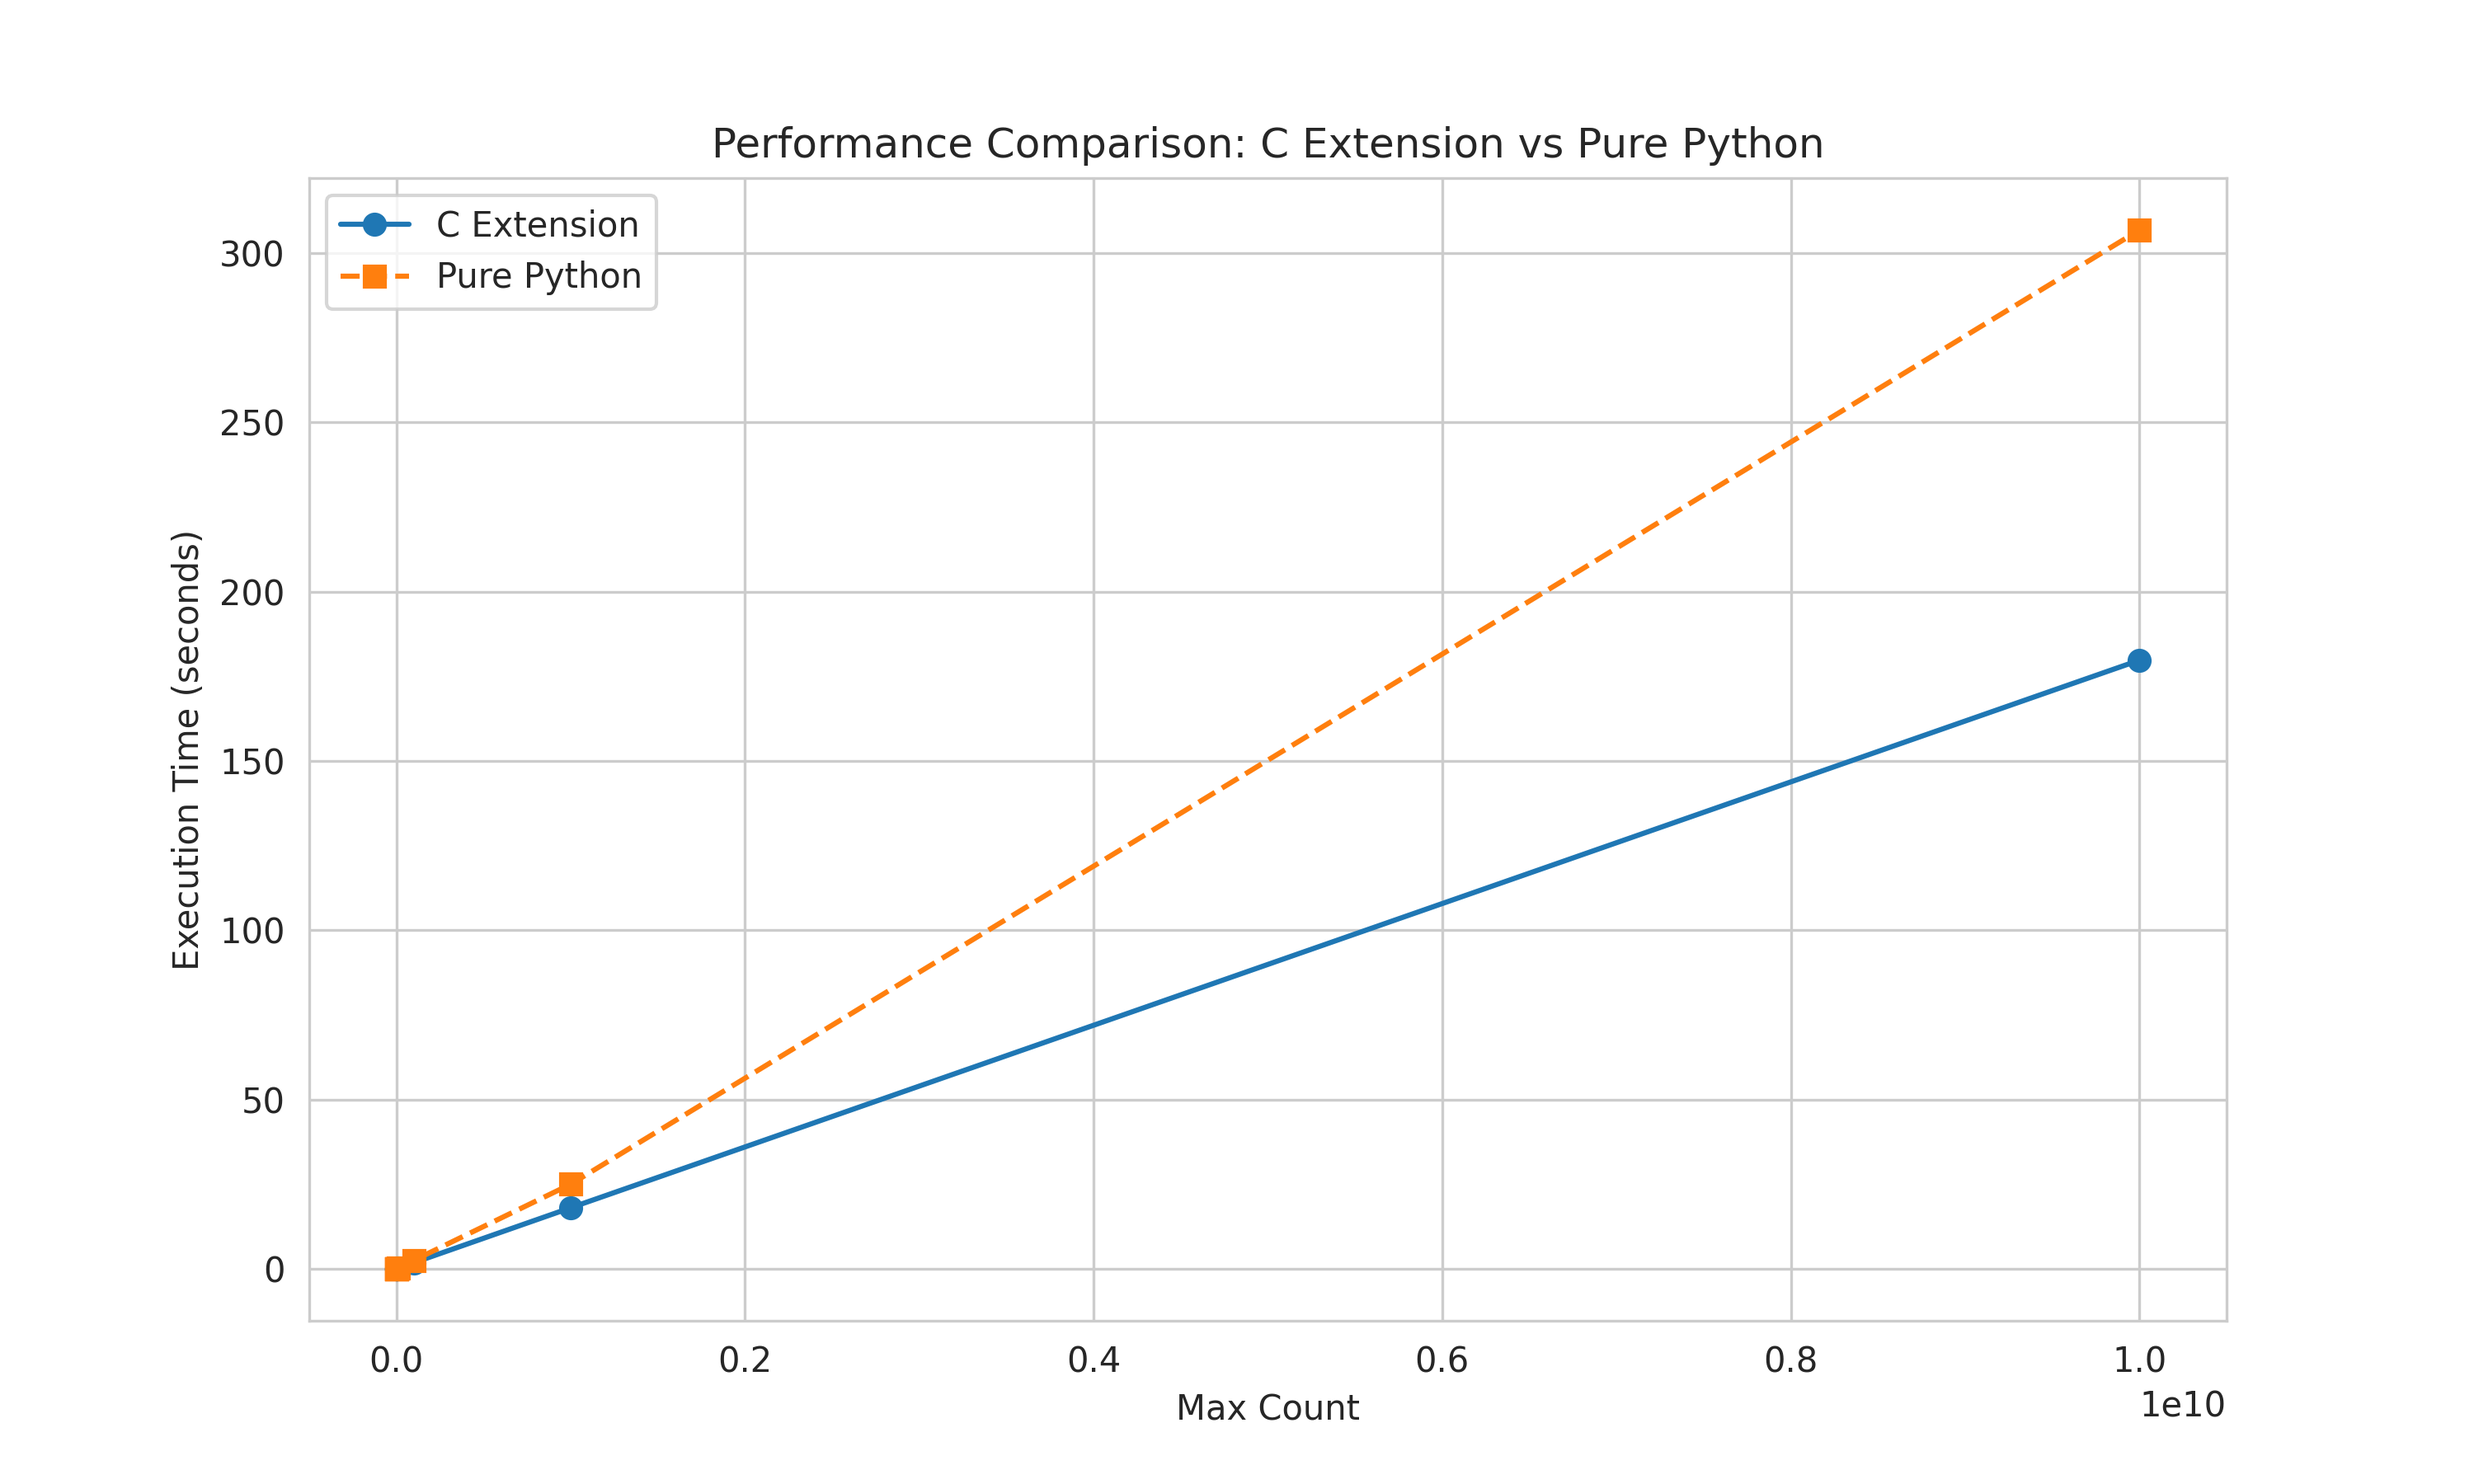
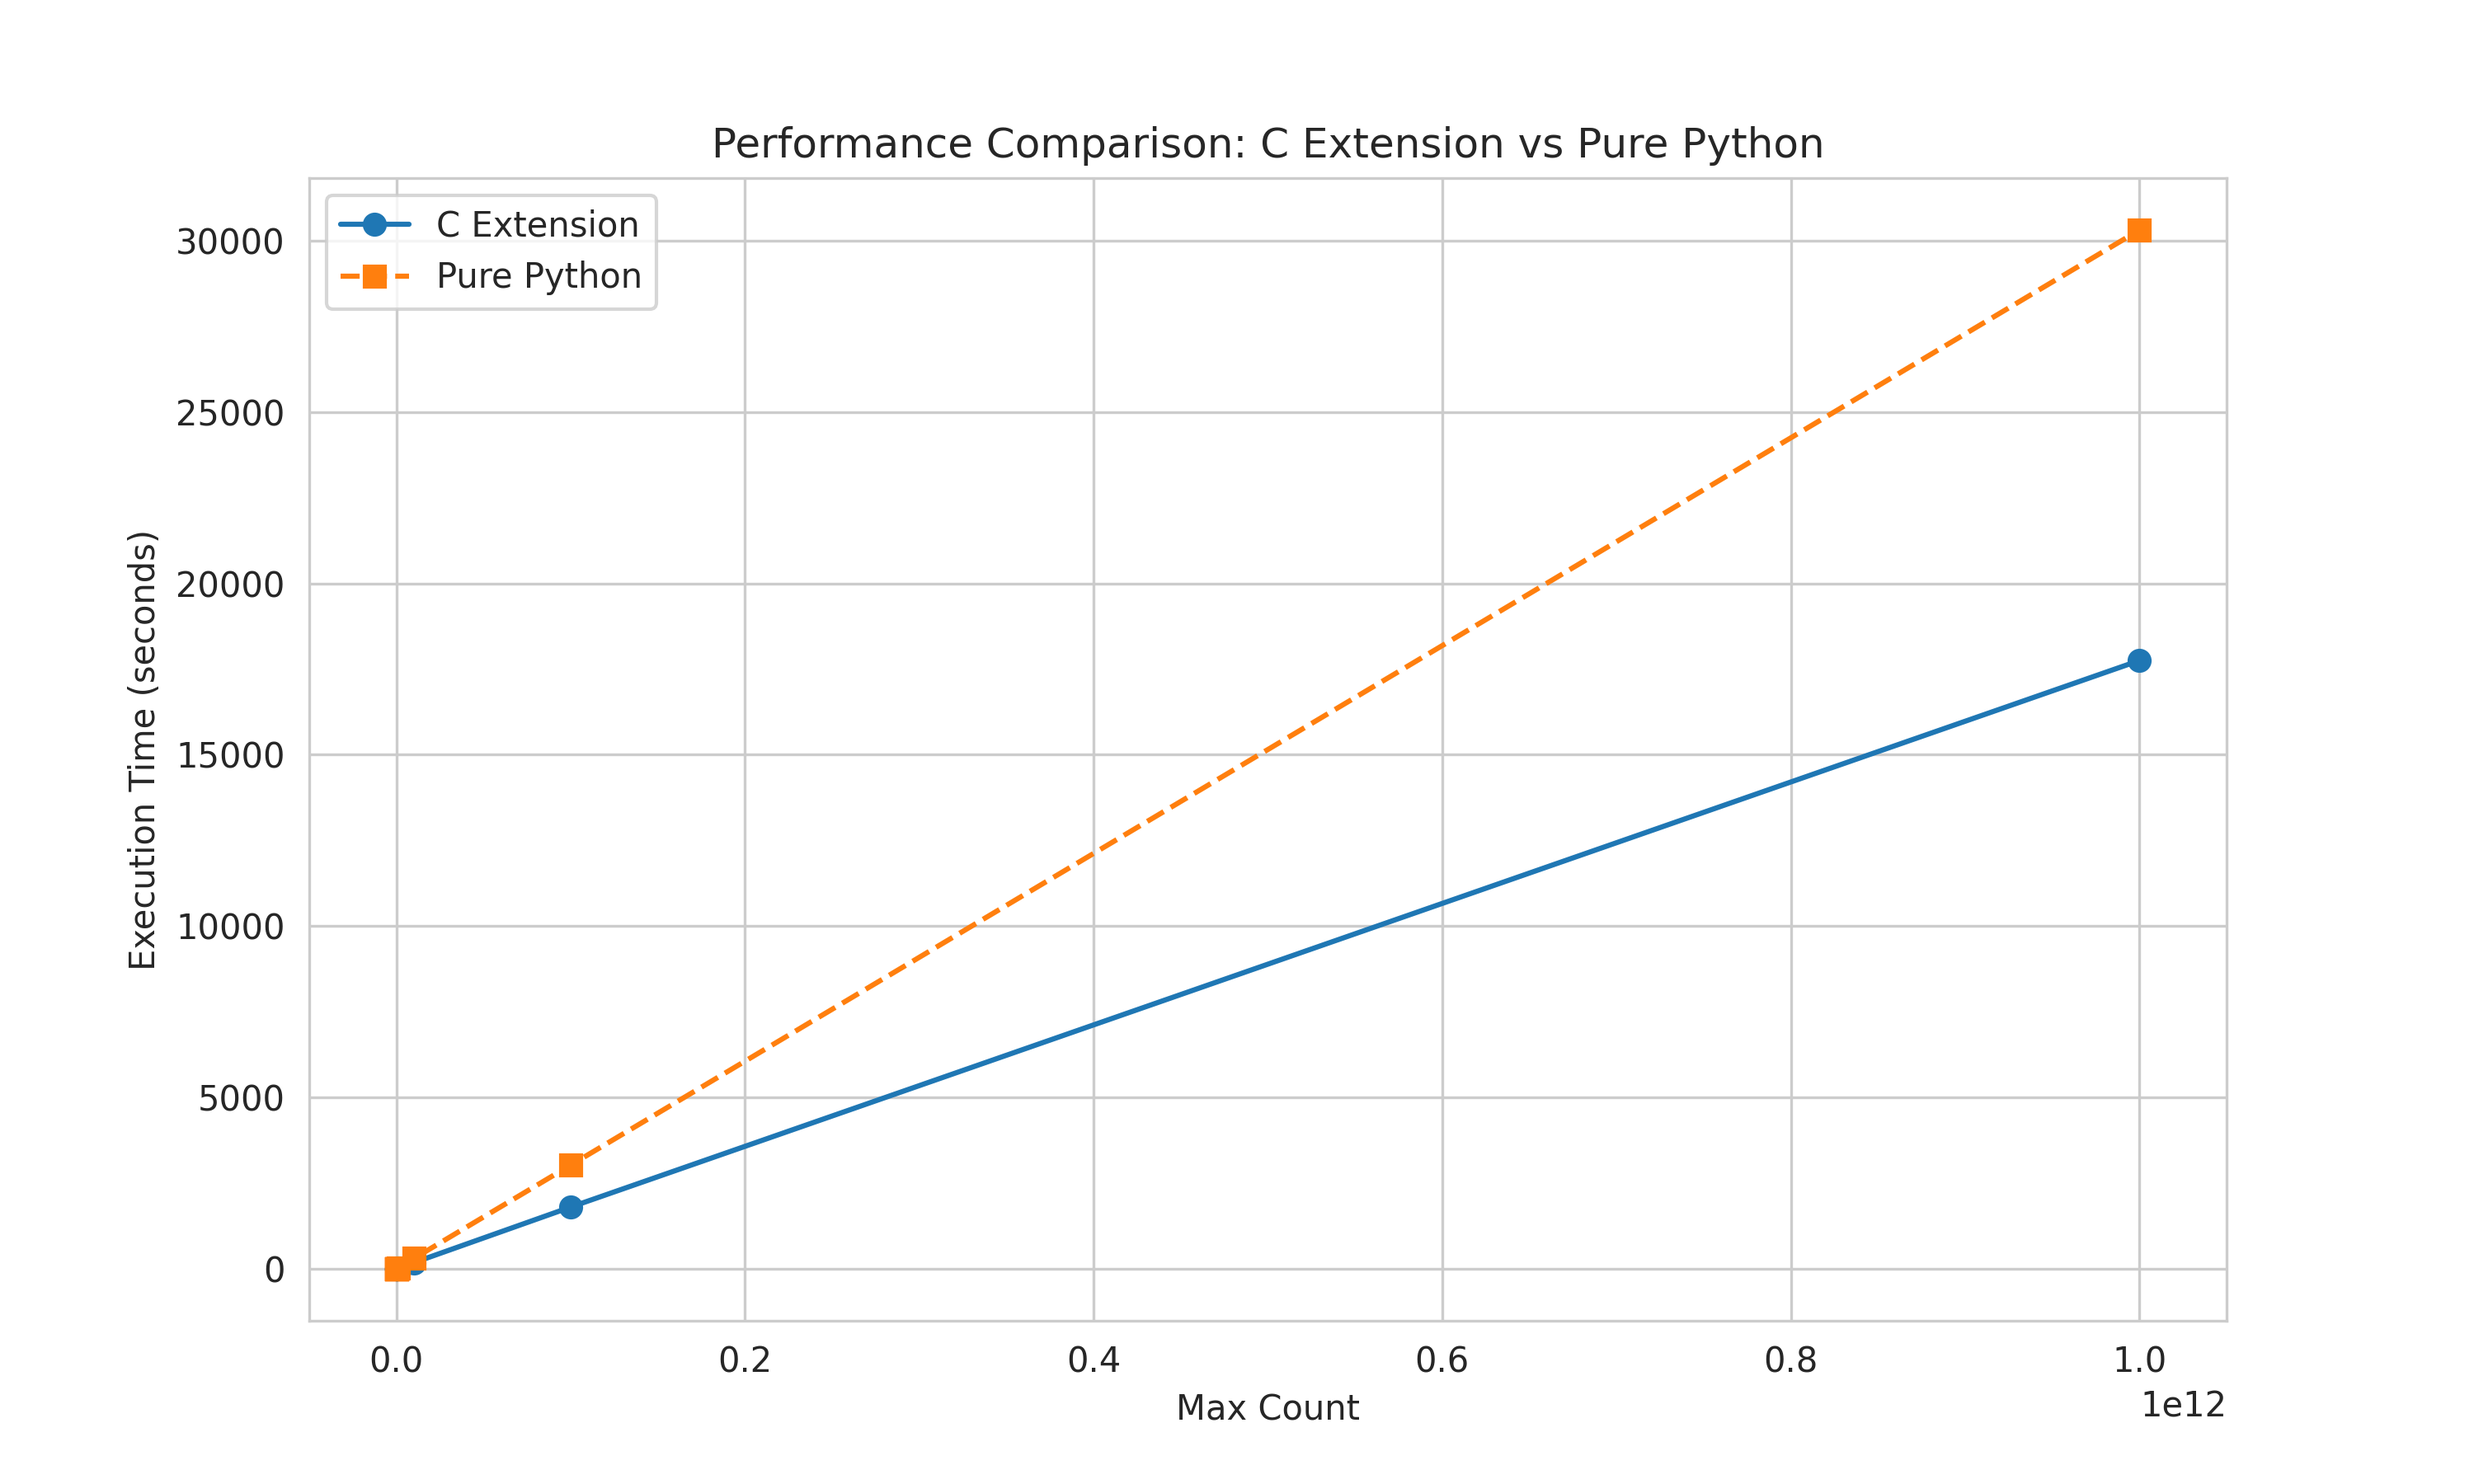
bigger benchmark

diff --git a/count/benchmark.py b/count/benchmark.py
@@ -3,13 +3,7 @@ import count_module
 import seaborn as sns
 import numpy as np
 import matplotlib.pyplot as plt
-
-# Pure Python generator function
-def python_count_up_to(max_value):
-    count = 1
-    while count <= max_value:
-        yield count
-        count += 1
+from count_python import python_count_up_to
 
 
 # Benchmarking function
@@ -42,7 +36,7 @@ if python_time > 0:
 c_times = []
 python_times = []
 
-max_counts = [10**x for x in range(1, 11)]
+max_counts = [10**x for x in range(1, 13)]
 
 for max_count in max_counts:
     print(f"Benchmarking for {max_count} iterations...")
@@ -54,12 +48,28 @@ for max_count in max_counts:
     # Benchmark pure Python generator
     python_time = benchmark(python_count_up_to, max_count)
     python_times.append(python_time)
+    print(f"{c_time:.6f} - {python_time:.6f}")
 
 max_counts = np.array(max_counts)
 c_times = np.array(c_times)
 python_times = np.array(python_times)
 
 # Plot the results
+sns.set_style("whitegrid")
+plt.figure(figsize=(10, 6))
+
+plt.plot(max_counts, c_times, label="C Extension", marker="o", linestyle="-")
+plt.plot(max_counts, python_times, label="Pure Python", marker="s", linestyle="--")
+
+plt.xlabel("Max Count")
+plt.ylabel("Execution Time (seconds)")
+plt.title("Performance Comparison: C Extension vs Pure Python")
+plt.legend()
+
+plot_filename = "./performance_comparison.png"
+plt.savefig(plot_filename, dpi=300)
+plt.show()
+
 sns.set_style("whitegrid")
 plt.figure(figsize=(10, 6))
 

diff --git a/count/count_python.py b/count/count_python.py
@@ -1,0 +1,6 @@
+# Pure Python generator function
+def python_count_up_to(max_value):
+    count = 1
+    while count <= max_value:
+        yield count
+        count += 1

diff --git a/count/README.md b/count/README.md
@@ -2,14 +2,14 @@
 
 ```commandline
 python3 setup.py build_ext --inplace
-pyhton3 throw.py
+pyhton3 benchmark.py
 ```
 
 ```text
 For 10000000000.0 as max value:
-CPython C extension time: 178.526327 seconds
-Pure Python generator time: 451.412966 seconds
-Speedup: 2.53x faster with C extension
+CPython C extension time: 179.725857 seconds
+Pure Python generator time: 458.229013 seconds
+Speedup: 2.55x faster with C extension
 ```
 
 #### Performance comparison
